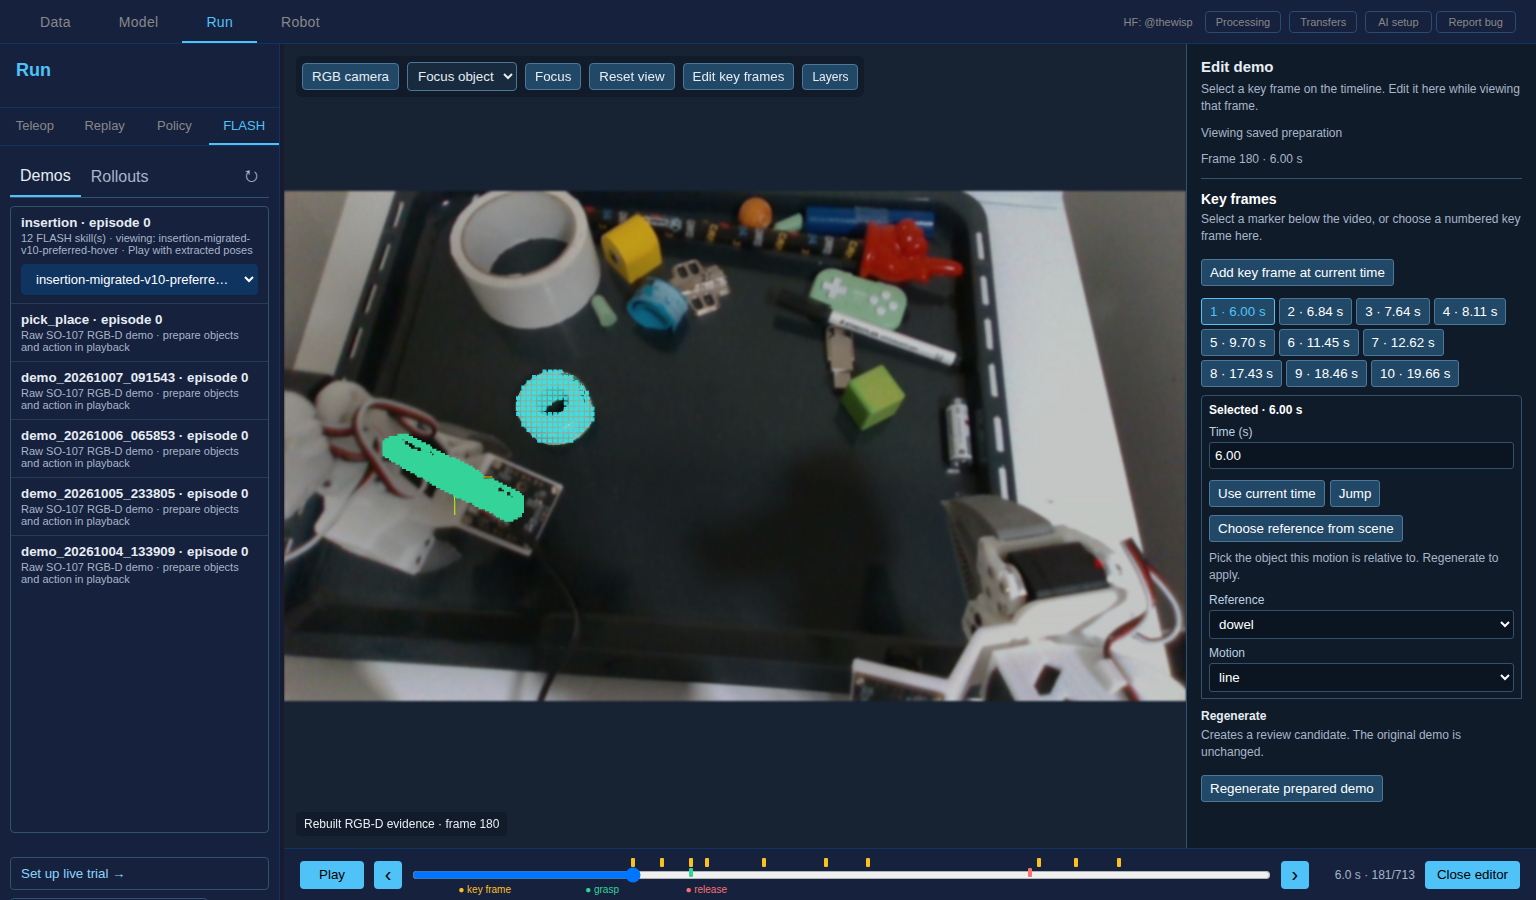
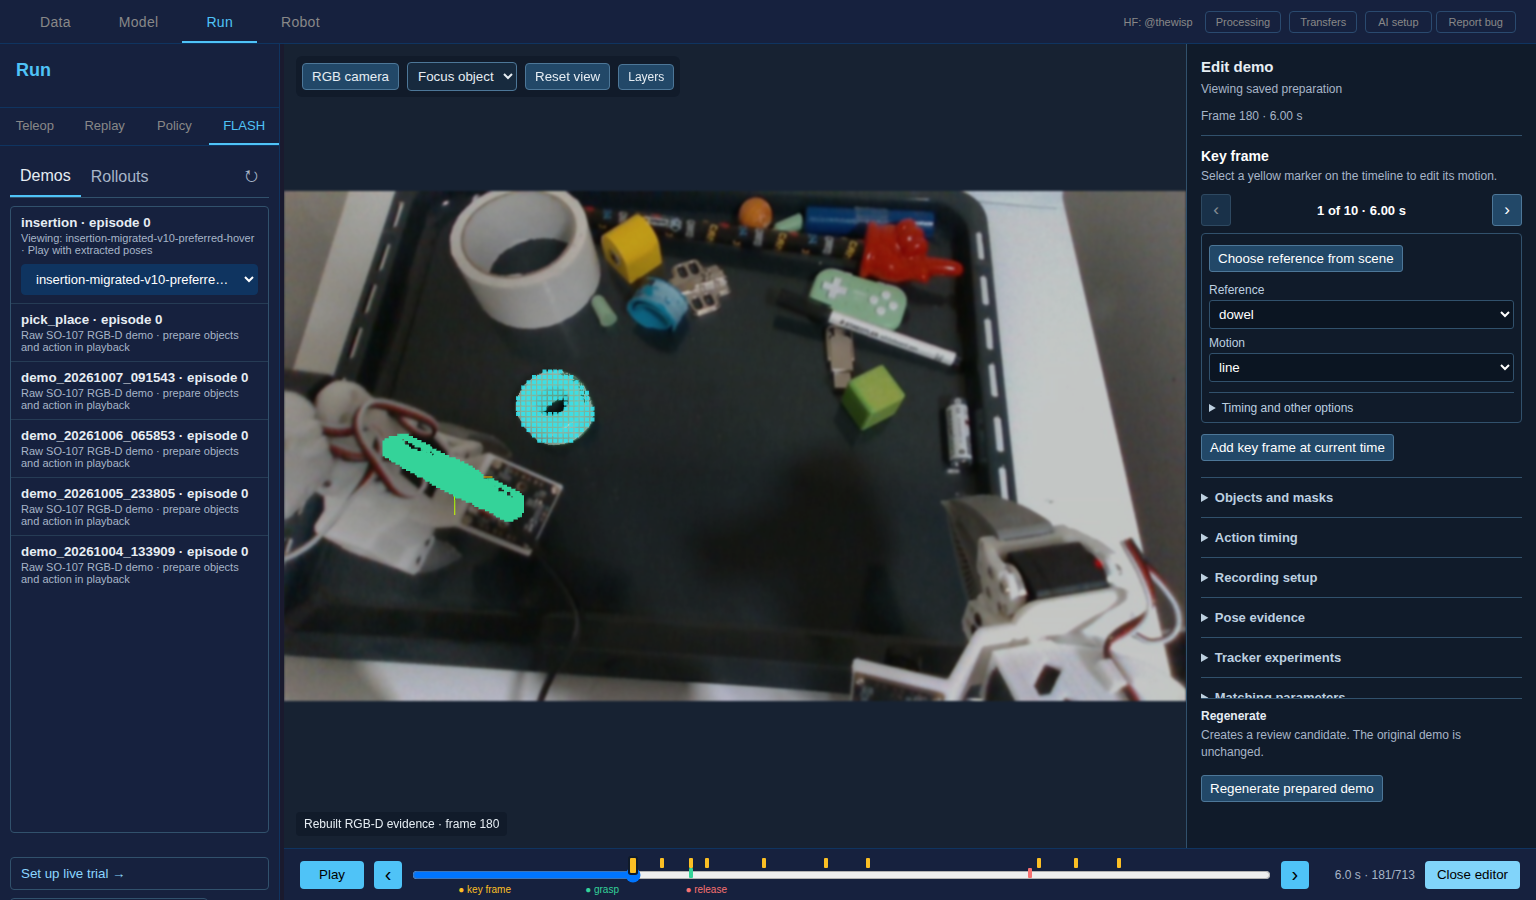
Simplify FLASH demo editing around the selected key frame
The demo editor repeated every key frame as buttons beside an already marked timeline and kept object and low-level controls visible during ordinary playback. Keep one selected key frame beside the scene, make timeline markers easier to click, and let measured-surface clicks open the corresponding object's controls. The raw-demo setup still exposes object annotation, while prepared demos keep secondary tools available in flat disclosures. This changes only the editor interaction; it does not add new adaptation semantics to the planner. Verified with 61 GUI and asset-version tests, pre-commit checks, and a real insertion-demo browser screenshot with no page errors.

diff --git a/src/lerobot/gui/static/flash_demo_editor.js b/src/lerobot/gui/static/flash_demo_editor.js
@@ -173,30 +173,14 @@ function _flashEditorRender() {
     const heading = document.createElement('h3');
     heading.textContent = state.raw ? 'Prepare demo' : 'Edit demo';
     editor.append(heading);
-    const summary = document.createElement('p');
-    summary.textContent = state.raw
-        ? 'Name the objects, mark the action on the timeline, then prepare.'
-        : 'Select a key frame on the timeline. Edit it here while viewing that frame.';
-    editor.append(summary);
+    if (state.raw) {
+        const summary = document.createElement('p');
+        summary.textContent = 'Name the objects, mark the action on the timeline, then prepare.';
+        editor.append(summary);
+    }
     const changed = document.createElement('p');
     changed.id = 'flash-demo-editor-change-status';
     editor.append(changed);
-    const report = state.preparationReport;
-    if (report) {
-        if (report.review_status === 'candidate') {
-            const candidate = document.createElement('p');
-            candidate.textContent = 'Review candidate · inspect its masks and poses before using it for a live trial.';
-            editor.append(candidate);
-        }
-        const evidence = report.pose_evidence_frames;
-        const note = document.createElement('p');
-        note.textContent = evidence
-            ? Object.entries(evidence).map(([role, counts]) =>
-                `${role}: ${counts.observed || 0} observed, ${counts.predicted || 0} predicted, ${counts.lost || 0} lost`
-            ).join(' · ')
-            : 'This version has no per-source evidence count; inspect its pose labels on the timeline.';
-        editor.append(note);
-    }
     const frameText = document.createElement('p');
     frameText.id = 'flash-demo-editor-frame';
     editor.append(frameText);
@@ -210,7 +194,7 @@ function _flashEditorRender() {
     }
     for (const [key, label, primary] of [
         ['keyframes', 'Key frames', true],
-        ['objects', 'Objects and masks', true],
+        ['objects', 'Objects and masks', state.raw],
         ['events', 'Action timing', state.raw],
         ['setup', 'Recording setup', state.raw],
         ['pose', 'Pose evidence', false],
@@ -503,50 +487,35 @@ function _flashEditorRender() {
         });
     }
 
-    const keypoints = _flashEditorSection(panes.keyframes, 'Key frames',
-        'Select a marker below the video, or choose a numbered key frame here.');
-    _flashEditorButton(keypoints, 'Add key frame at current time', () => {
-        const time = _flashEditorCurrentFrame().snapshot.demo.time_s;
-        const points = state.keypointsDocument.keypoints;
-        if (points.some(point => Math.abs(point.t - time) < 1e-6)) {
-            showToast('Key frame already exists', 'Choose another frame or edit the existing event.', 'warning');
-            return;
-        }
-        const prior = [...points].reverse().find(point => point.t < time) || points[0] ||
-            {kind: 'key', frame: 'world', move: 'line', grip: 'first', constraint: 'pose'};
-        points.push({ ...prior, t: time, kind: 'key' });
-        points.sort((left, right) => left.t - right.t);
-        state.keypointIndex = points.findIndex(point => point.t === time);
-        _flashEditorRender();
-        _flashRenderTimeline();
-    });
-    const keypointList = document.createElement('div');
-    keypointList.className = 'flash-editor-keypoint-list';
-    keypoints.append(keypointList);
-    state.keypointsDocument.keypoints.forEach((point, index) => {
-        const select = _flashEditorButton(keypointList, `${index + 1} · ${point.t.toFixed(2)} s`, () => {
-            state.keypointIndex = index;
+    const keypoints = _flashEditorSection(panes.keyframes, 'Key frame',
+        'Select a yellow marker on the timeline to edit its motion.');
+    const points = state.keypointsDocument.keypoints;
+    if (points.length) {
+        state.keypointIndex = Math.max(0, Math.min(state.keypointIndex, points.length - 1));
+        const index = state.keypointIndex;
+        const point = points[index];
+        const navigation = document.createElement('div');
+        navigation.className = 'flash-editor-keypoint-navigation';
+        const previous = _flashEditorButton(navigation, '‹', () => {
+            state.keypointIndex--;
             _flashEditorRender();
-            _flashEditorJumpTime(point.t);
+            _flashEditorJumpTime(points[state.keypointIndex].t);
         });
-        select.classList.toggle('active', index === state.keypointIndex);
-        if (index !== state.keypointIndex) return;
+        previous.setAttribute('aria-label', 'Previous key frame');
+        previous.disabled = index === 0;
+        const position = document.createElement('strong');
+        position.textContent = `${index + 1} of ${points.length} · ${point.t.toFixed(2)} s`;
+        navigation.append(position);
+        const next = _flashEditorButton(navigation, '›', () => {
+            state.keypointIndex++;
+            _flashEditorRender();
+            _flashEditorJumpTime(points[state.keypointIndex].t);
+        });
+        next.setAttribute('aria-label', 'Next key frame');
+        next.disabled = index === points.length - 1;
+        keypoints.append(navigation);
         const details = document.createElement('div');
         details.className = 'flash-editor-keypoint';
-        const title = document.createElement('strong');
-        title.textContent = `Selected · ${point.t.toFixed(2)} s`;
-        details.append(title);
-        _flashEditorField(details, 'Time (s)', point.t.toFixed(2), value => {
-            if (!Number.isFinite(value)) return;
-            point.t = value;
-            title.textContent = `Selected · ${value.toFixed(2)} s`;
-        }, null, 'number');
-        _flashEditorButton(details, 'Use current time', () => {
-            point.t = _flashEditorCurrentFrame().snapshot.demo.time_s; _flashEditorRender();
-        });
-        _flashEditorButton(details, 'Jump', () => {
-            _flashEditorJumpTime(point.t);
-        });
         const startAnchored = Number.isFinite(Number(a.grasp_time_s)) &&
             Number.isFinite(Number(a.start_anchored_until_s)) &&
             point.t > Number(a.grasp_time_s) && point.t <= Number(a.start_anchored_until_s);
@@ -565,21 +534,34 @@ function _flashEditorRender() {
                     _flashEditorRender();
                 });
             pick.disabled = state.running || startAnchored;
-            const note = document.createElement('p');
-            note.textContent = startAnchored
+            if (startAnchored || state.pickingReference) {
+                const note = document.createElement('p');
+                note.textContent = startAnchored
                 ? 'This interval uses the grasp-start reference. To change it, first edit “Start-anchored until” under Action timing.'
-                : state.pickingReference
-                    ? 'Click a measured object in the 3D scene to use it as this key frame’s reference.'
-                    : 'Pick the object this motion is relative to. Regenerate to apply.';
-            details.append(note);
+                    : 'Click a measured object in the 3D scene to use it as this key frame’s reference.';
+                details.append(note);
+            }
         }
         const reference = _flashEditorField(details, 'Reference', point.frame || 'world', value => { point.frame = value; }, ['world', ...roles]);
         reference.disabled = startAnchored;
         _flashEditorField(details, 'Motion', point.move, value => { point.move = value; }, ['line', 'follow', 'lift']);
-        _flashEditorField(details, 'Constraint', point.constraint || 'pose', value => { point.constraint = value; }, ['pose', 'best_effort']);
-        _flashEditorField(details, 'Grip', point.grip || 'first', value => { point.grip = value; }, ['first', 'along']);
-        if (point.move === 'lift') _flashEditorField(details, 'Lift (mm)', point.up_mm || 0, value => { point.up_mm = value; }, null, 'number');
-        _flashEditorButton(details, 'Remove key frame', () => {
+        const more = document.createElement('details');
+        more.className = 'flash-editor-keyframe-more';
+        const moreTitle = document.createElement('summary');
+        moreTitle.textContent = 'Timing and other options';
+        more.append(moreTitle);
+        _flashEditorField(more, 'Time (s)', point.t.toFixed(2), value => {
+            if (!Number.isFinite(value)) return;
+            point.t = value;
+            position.textContent = `${index + 1} of ${points.length} · ${value.toFixed(2)} s`;
+        }, null, 'number');
+        _flashEditorButton(more, 'Use current time', () => {
+            point.t = _flashEditorCurrentFrame().snapshot.demo.time_s; _flashEditorRender();
+        });
+        _flashEditorField(more, 'Constraint', point.constraint || 'pose', value => { point.constraint = value; }, ['pose', 'best_effort']);
+        _flashEditorField(more, 'Grip', point.grip || 'first', value => { point.grip = value; }, ['first', 'along']);
+        if (point.move === 'lift') _flashEditorField(more, 'Lift (mm)', point.up_mm || 0, value => { point.up_mm = value; }, null, 'number');
+        _flashEditorButton(more, 'Remove key frame', () => {
             if (state.keypointsDocument.keypoints.length <= 1) {
                 showToast('Keep one key frame', 'The prepared skill needs at least one event.', 'warning');
                 return;
@@ -589,7 +571,22 @@ function _flashEditorRender() {
             _flashEditorRender();
             _flashRenderTimeline();
         });
+        details.append(more);
         keypoints.append(details);
+    }
+    _flashEditorButton(keypoints, 'Add key frame at current time', () => {
+        const time = _flashEditorCurrentFrame().snapshot.demo.time_s;
+        if (points.some(point => Math.abs(point.t - time) < 1e-6)) {
+            showToast('Key frame already exists', 'Choose another frame or edit the existing event.', 'warning');
+            return;
+        }
+        const prior = [...points].reverse().find(point => point.t < time) || points[0] ||
+            {kind: 'key', frame: 'world', move: 'line', grip: 'first', constraint: 'pose'};
+        points.push({ ...prior, t: time, kind: 'key' });
+        points.sort((left, right) => left.t - right.t);
+        state.keypointIndex = points.findIndex(point => point.t === time);
+        _flashEditorRender();
+        _flashRenderTimeline();
     });
 
     const advanced = document.createElement('div');
@@ -746,6 +743,7 @@ function flashDemoEditorPickReference(role) {
     const point = state.keypointsDocument.keypoints[state.keypointIndex];
     if (!point) return;
     point.frame = role;
+    state.role = role;
     state.pickingReference = false;
     state.message = `Key frame ${state.keypointIndex + 1} now references ${role}. Regenerate to apply.`;
     _flashEditorRender();

diff --git a/src/lerobot/gui/static/style.css b/src/lerobot/gui/static/style.css
@@ -659,9 +659,11 @@ body { font-family: -apple-system, BlinkMacSystemFont, 'Segoe UI', Roboto, sans-
 .flash-replay-timeline { position: relative; display: flex; align-items: center; flex: 1; min-width: 0; height: 34px; }
 .flash-replay-timeline input { position: relative; z-index: 1; width: 100%; }
 .flash-timeline-markers { position: absolute; z-index: 2; inset: 0 7px auto; height: 20px; pointer-events: none; }
-.flash-timeline-marker { position: absolute; top: 0; width: 4px; height: 9px !important; min-width: 0 !important; padding: 0 !important; transform: translateX(-50%); border-radius: 1px !important; pointer-events: auto; background: #fbbf24 !important; }
-.flash-timeline-grasp { top: 10px; background: #34d399 !important; }
-.flash-timeline-release { top: 10px; background: #f87171 !important; }
+.flash-timeline-marker { position: absolute; top: 0; width: 16px; height: 20px !important; min-width: 0 !important; padding: 0 !important; transform: translateX(-50%); border: 0 !important; border-radius: 0 !important; pointer-events: auto; background: transparent !important; cursor: pointer; }
+.flash-timeline-marker::after { content: ''; position: absolute; top: 0; left: 6px; width: 4px; height: 10px; background: #fbbf24; border-radius: 1px; }
+.flash-timeline-marker.active::after { left: 5px; width: 6px; height: 15px; box-shadow: 0 0 0 2px #101b2a; }
+.flash-timeline-grasp::after { top: 10px; background: #34d399; }
+.flash-timeline-release::after { top: 10px; background: #f87171; }
 .flash-timeline-legend { position: absolute; bottom: -3px; left: 3px; display: flex; gap: 12px; color: #a7b5c8; font-size: 10px; white-space: nowrap; pointer-events: none; }
 .flash-timeline-legend[hidden] { display: none; }
 .flash-timeline-legend span:nth-child(1) { color: #fbbf24; }
@@ -783,9 +785,12 @@ body { font-family: -apple-system, BlinkMacSystemFont, 'Segoe UI', Roboto, sans-
 .flash-demo-editor .flash-editor-group > summary { cursor: pointer; padding: 12px 0; font-size: 13px; font-weight: 600; color: #bdd0e0; }
 .flash-demo-editor .flash-editor-group > .flash-editor-pane > section { border-top: 0; padding-top: 0; }
 .flash-demo-editor .flash-editor-keypoint > strong { display: block; margin-bottom: 8px; color: #fff; }
-.flash-editor-keypoint-list { display: flex; flex-wrap: wrap; gap: 4px; margin: 8px 0; }
-.flash-demo-editor .flash-editor-keypoint-list button { margin: 0; }
-.flash-demo-editor .flash-editor-keypoint-list button.active { border-color: #4fc3f7; color: #4fc3f7; }
+.flash-demo-editing #flash-scene-edit { display: none; }
+.flash-editor-keypoint-navigation { display: flex; align-items: center; justify-content: space-between; gap: 8px; margin-top: 8px; }
+.flash-editor-keypoint-navigation strong { color: #fff; font-size: 13px; }
+.flash-demo-editor .flash-editor-keypoint-navigation button { min-width: 30px; font-size: 17px; margin: 0; }
+.flash-editor-keyframe-more { border-top: 1px solid #31516c; margin-top: 10px; padding-top: 8px; }
+.flash-editor-keyframe-more > summary { color: #bdd0e0; cursor: pointer; }
 .flash-editor-footer { position: sticky; bottom: -14px; padding: 10px 0 !important; background: #101b2a; border-top: 1px solid #31516c; }
 @media (max-width: 1200px) {
     #tab-run.flash-reviewing #run-sidebar { width: 220px; min-width: 180px; }

diff --git a/src/lerobot/gui/static/run.js b/src/lerobot/gui/static/run.js
@@ -177,7 +177,13 @@ function _flashScenePointerUp(event) {
     const picked = flashSceneView.pickObserved(event.clientX, event.clientY);
     if (!picked) return;
     document.getElementById('flash-scene-object').value = picked.role;
-    if (flashDemoEditor?.pickingReference) flashDemoEditorPickReference(picked.role);
+    if (flashDemoEditor?.pickingReference) {
+        flashDemoEditorPickReference(picked.role);
+    } else if (flashDemoEditor) {
+        flashDemoEditor.role = picked.role;
+        flashDemoEditor.section = 'objects';
+        _flashEditorRender();
+    }
 }
 
 function _flashUpdateWorkspace() {
@@ -1236,10 +1242,9 @@ function _flashInstallReplay(replay, imageAlt) {
         toolbar.className = 'flash-scene-toolbar';
         toolbar.innerHTML = '<button type="button" id="flash-scene-toggle" onclick="toggleFlashSceneView()">3D scene</button>' +
             '<div id="flash-scene-tools" hidden>' +
-            '<select id="flash-scene-object" aria-label="Object to focus"><option value="">Focus object</option></select>' +
-            '<button type="button" onclick="flashSceneView?.focus(document.getElementById(\'flash-scene-object\').value)">Focus</button>' +
+            '<select id="flash-scene-object" aria-label="Focus object" onchange="flashSceneView?.focus(this.value)"><option value="">Focus object</option></select>' +
             '<button type="button" onclick="flashSceneView?.reset()">Reset view</button>' +
-            '<button type="button" onclick="openFlashDemoSceneEditor()">Edit key frames</button>' +
+            '<button type="button" id="flash-scene-edit" onclick="openFlashDemoSceneEditor()">Edit key frames</button>' +
             '<details class="flash-scene-layer-menu"><summary>Layers</summary><div class="flash-scene-layer-options">' +
             '<label title="Current frame, using this frame’s mask and measured depth"><input type="checkbox" id="flash-scene-surface" checked onchange="_flashUpdateSceneFrame()">Measured surface</label>' +
             '<label title="Current mask-and-depth samples for display; these are not tracked landmarks"><input type="checkbox" id="flash-scene-points" checked onchange="_flashUpdateSceneFrame()">Surface points</label>' +
@@ -1294,6 +1299,8 @@ function _flashRenderTimeline() {
         const button = document.createElement('button');
         button.type = 'button';
         button.className = `flash-timeline-marker flash-timeline-${event.kind}`;
+        if (event.kind === 'key' && flashDemoEditor?.keypointIndex === event.index)
+            button.classList.add('active');
         button.style.left = `${100 * event.time / duration}%`;
         button.title = `${event.label} · ${Number(event.time).toFixed(2)} s`;
         button.setAttribute('aria-label', button.title);
@@ -1307,6 +1314,7 @@ function _flashRenderTimeline() {
                 flashDemoEditor.section = event.kind === 'key' ? 'keyframes' : 'events';
                 if (event.kind === 'key') flashDemoEditor.keypointIndex = event.index;
                 _flashEditorRender();
+                _flashRenderTimeline();
             }
         };
         markers.append(button);

diff --git a/src/lerobot/gui/static/index.html b/src/lerobot/gui/static/index.html
@@ -5,7 +5,7 @@
     <meta name="viewport" content="width=device-width, initial-scale=1.0">
     <title>LeRobot GUI</title>
     <script>document.title = `LeRobot GUI [${window.location.host}]`;</script>
-    <link rel="stylesheet" href="/static/style.css?v=151">
+    <link rel="stylesheet" href="/static/style.css?v=152">
     <script type="importmap">{"imports":{"three":"/static/vendor/three.module.js"}}</script>
 </head>
 <body>
@@ -805,8 +805,8 @@ nebius iam auth-public-key generate \
     <script src="/static/charts.js?v=5"></script>
     <script src="/static/robot.js?v=27"></script>
     <script src="/static/flash_live_tracking.js?v=9"></script>
-    <script src="/static/run.js?v=123"></script>
-    <script src="/static/flash_demo_editor.js?v=12"></script>
+    <script src="/static/run.js?v=125"></script>
+    <script src="/static/flash_demo_editor.js?v=15"></script>
     <script src="/static/overlay_gate.js?v=1"></script>
     <script src="/static/mask_seed.js?v=4"></script>
     <script src="/static/overlay_pull_gate.js?v=3"></script>

diff --git a/tests/gui/test_flash_inspect.py b/tests/gui/test_flash_inspect.py
@@ -675,6 +675,7 @@ def test_run_flash_lists_demos_and_shows_extracted_pose_overlay(gui_page):
     page.wait_for_function("() => !!document.querySelector('#flash-demo-editor')")
     assert "Edit demo" in page.locator("#flash-demo-editor").inner_text()
     assert page.locator("#flash-demo-editor-frame").inner_text().startswith("Frame 4")
+    page.locator("#flash-demo-editor .flash-editor-group[data-section='objects'] > summary").click()
     page.get_by_role("button", name="Draw replacement mask").click()
     page.evaluate("""() => {
         const image = document.querySelector('#rerun-viewer .flash-replay-grid img');
@@ -1278,6 +1279,18 @@ def test_3d_scene_projection_and_surface_pick_edit_the_prepared_keyframe(gui_pag
     )
     assert page.evaluate("([x, y]) => flashSceneView.pickObserved(x, y)?.role", fixture_pixel) == "fixture"
     page.mouse.click(*fixture_pixel)
+    assert page.evaluate("flashDemoEditor.keypointsDocument.keypoints[0].frame") == "fixture"
+    assert page.evaluate("flashDemoEditor.role") == "fixture"
+    tool_pixel = [
+        box["x"] + (box["width"] - width * scale) / 2 + 13 * scale,
+        box["y"] + (box["height"] - height * scale) / 2 + 24 * scale,
+    ]
+    assert page.evaluate("([x, y]) => flashSceneView.pickObserved(x, y)?.role", tool_pixel) == "tool"
+    page.mouse.click(*tool_pixel)
+    assert page.evaluate("flashDemoEditor.role") == "tool"
+    assert page.locator("#flash-demo-editor .flash-editor-group[data-section='objects']").evaluate(
+        "element => element.open"
+    )
     assert page.evaluate("flashDemoEditor.keypointsDocument.keypoints[0].frame") == "fixture"
     assert "Unsaved edits" in page.locator("#flash-demo-editor-change-status").inner_text()
     page.get_by_role("button", name="Regenerate prepared demo").click()

diff --git a/docs/proofs/flash-scene-editor/EVIDENCE.md b/docs/proofs/flash-scene-editor/EVIDENCE.md
@@ -5,6 +5,10 @@ Captured 2026-10-28 from insertion episode 0, prepared version
 
 ![Frame 180 with measured surfaces and key-frame editor](demo-ui-frame180.png)
 
+The editor shows one selected key frame beside playback. Yellow timeline markers
+select key frames, arrows move between them, and clicking a measured object opens
+its mask controls. Other settings stay closed until requested.
+
 In the camera-aligned 3D view, measured points from the saved masks and aligned
 depth projected back to their RGB pixel locations. At frames 180, 291, and 450,
 the maximum discrepancy across 85, 64, and 174 sampled masked depth pixels was
